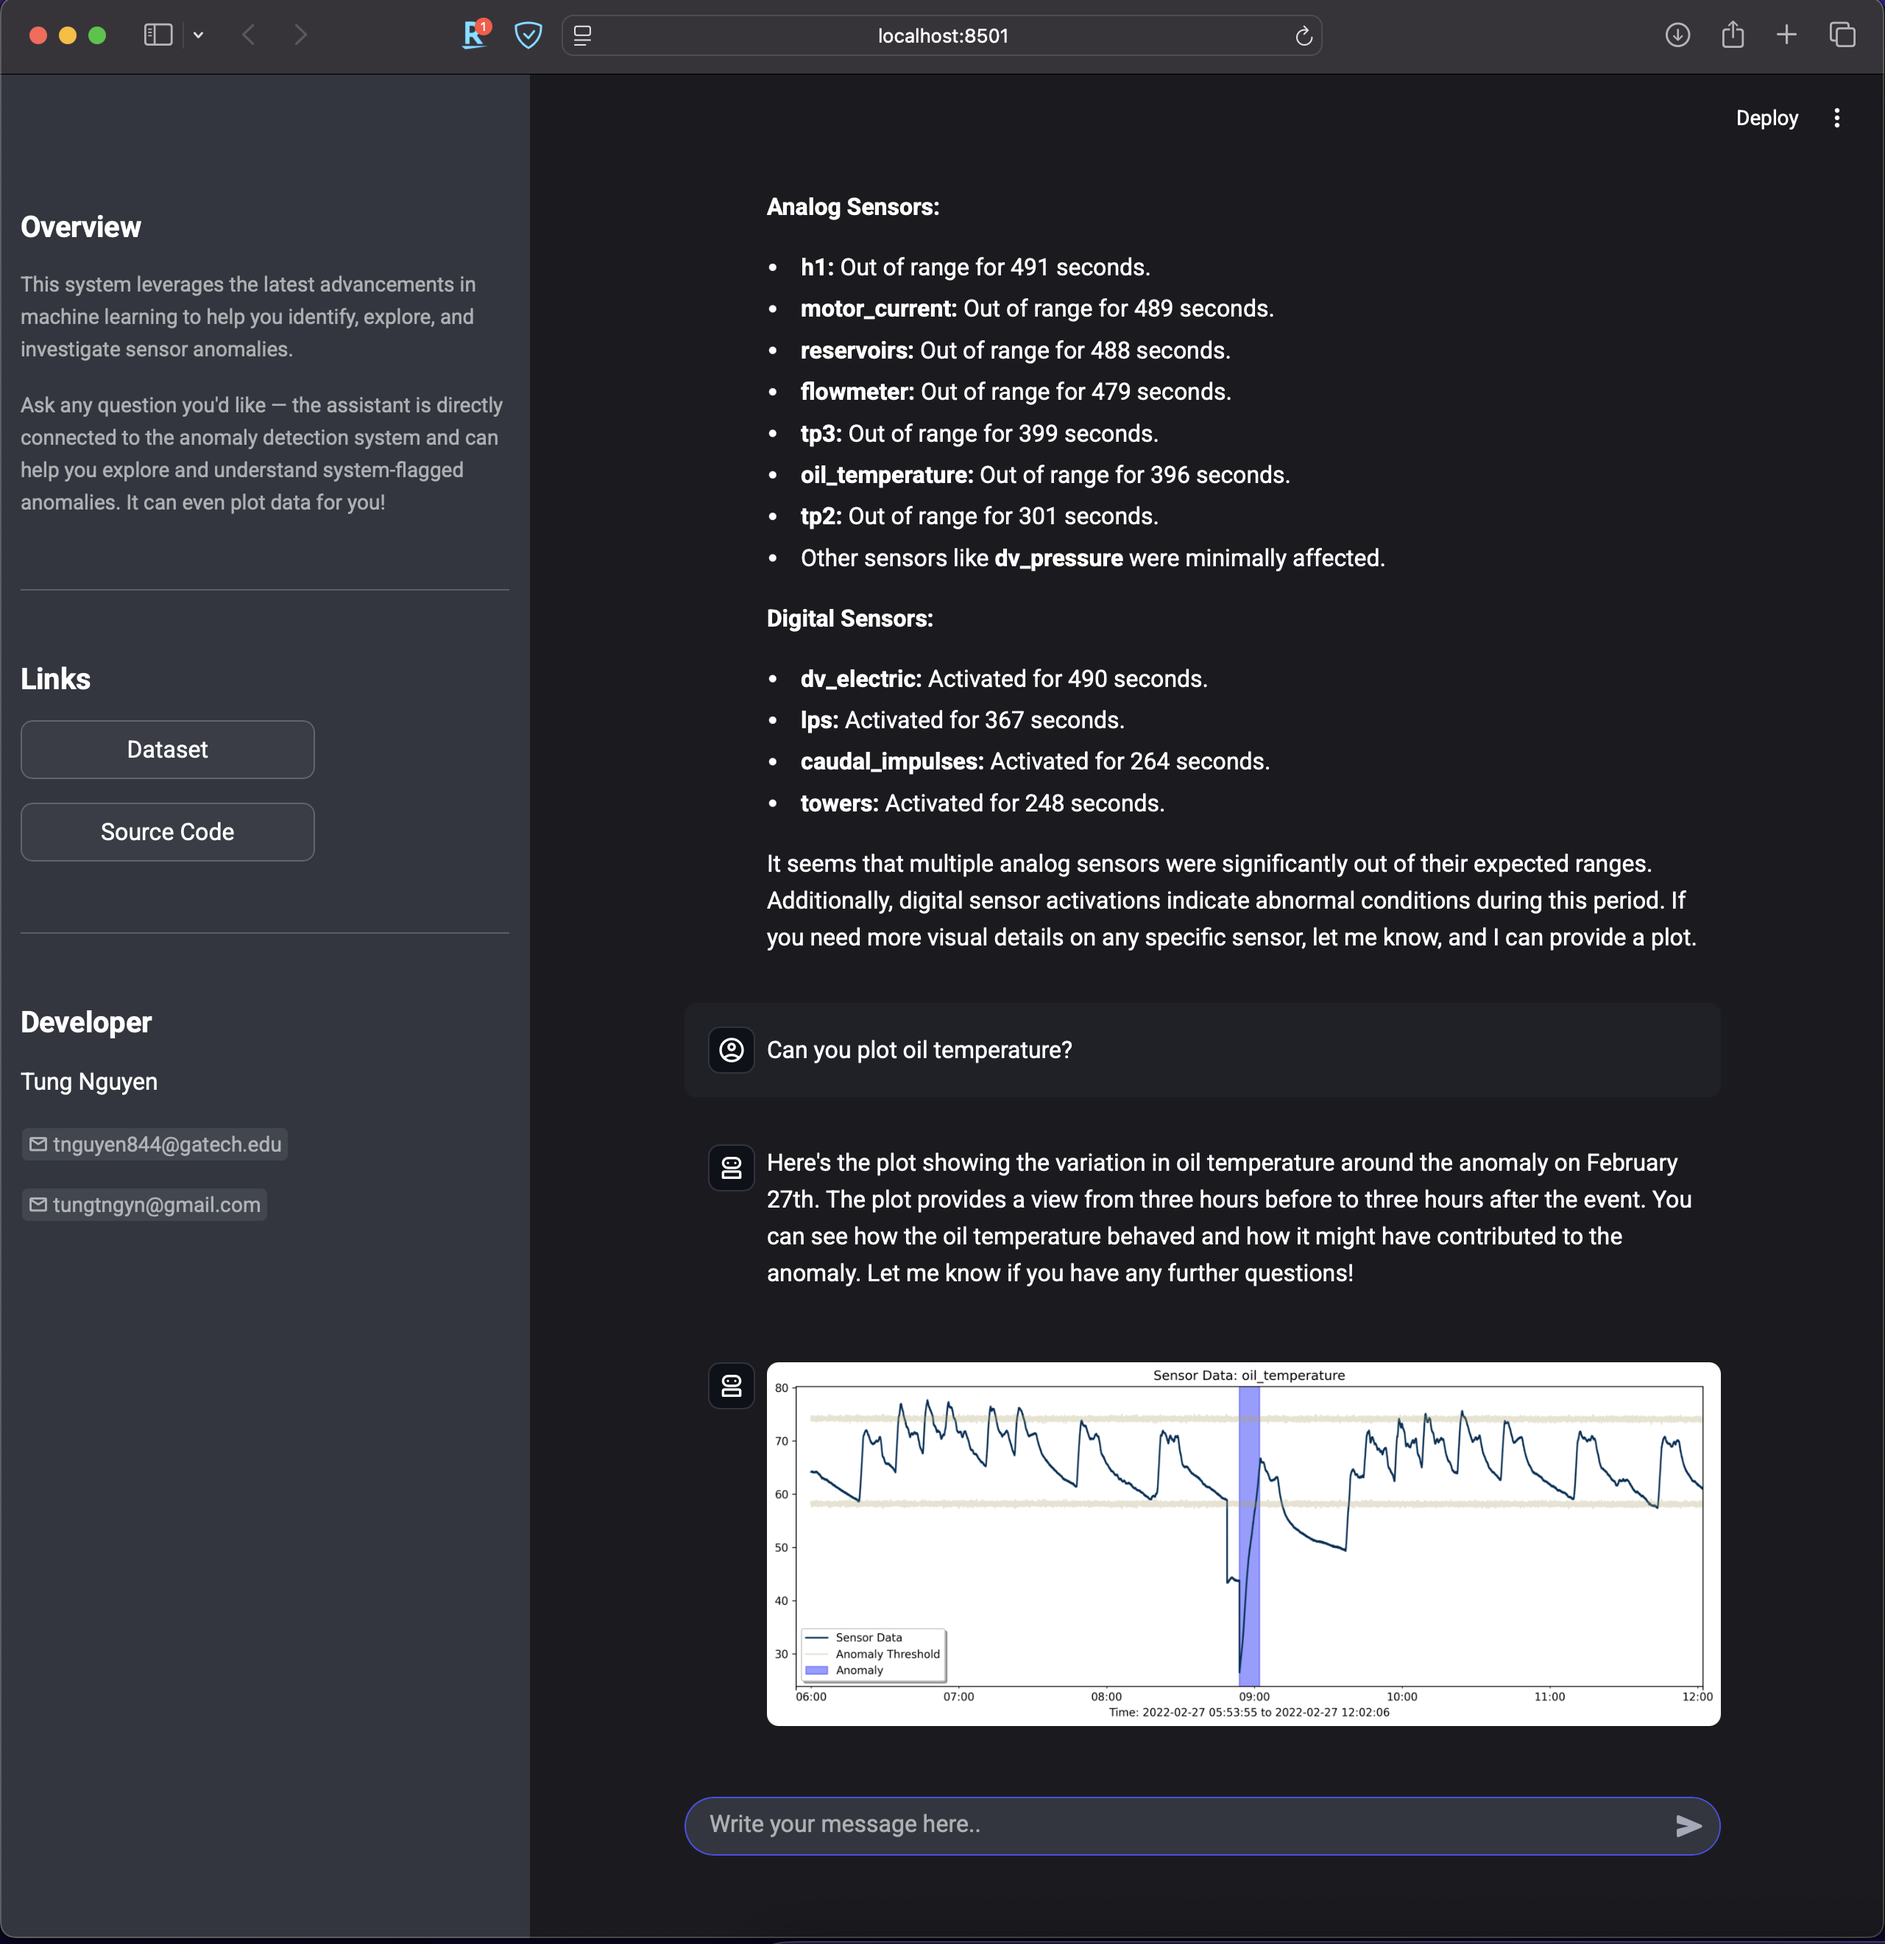
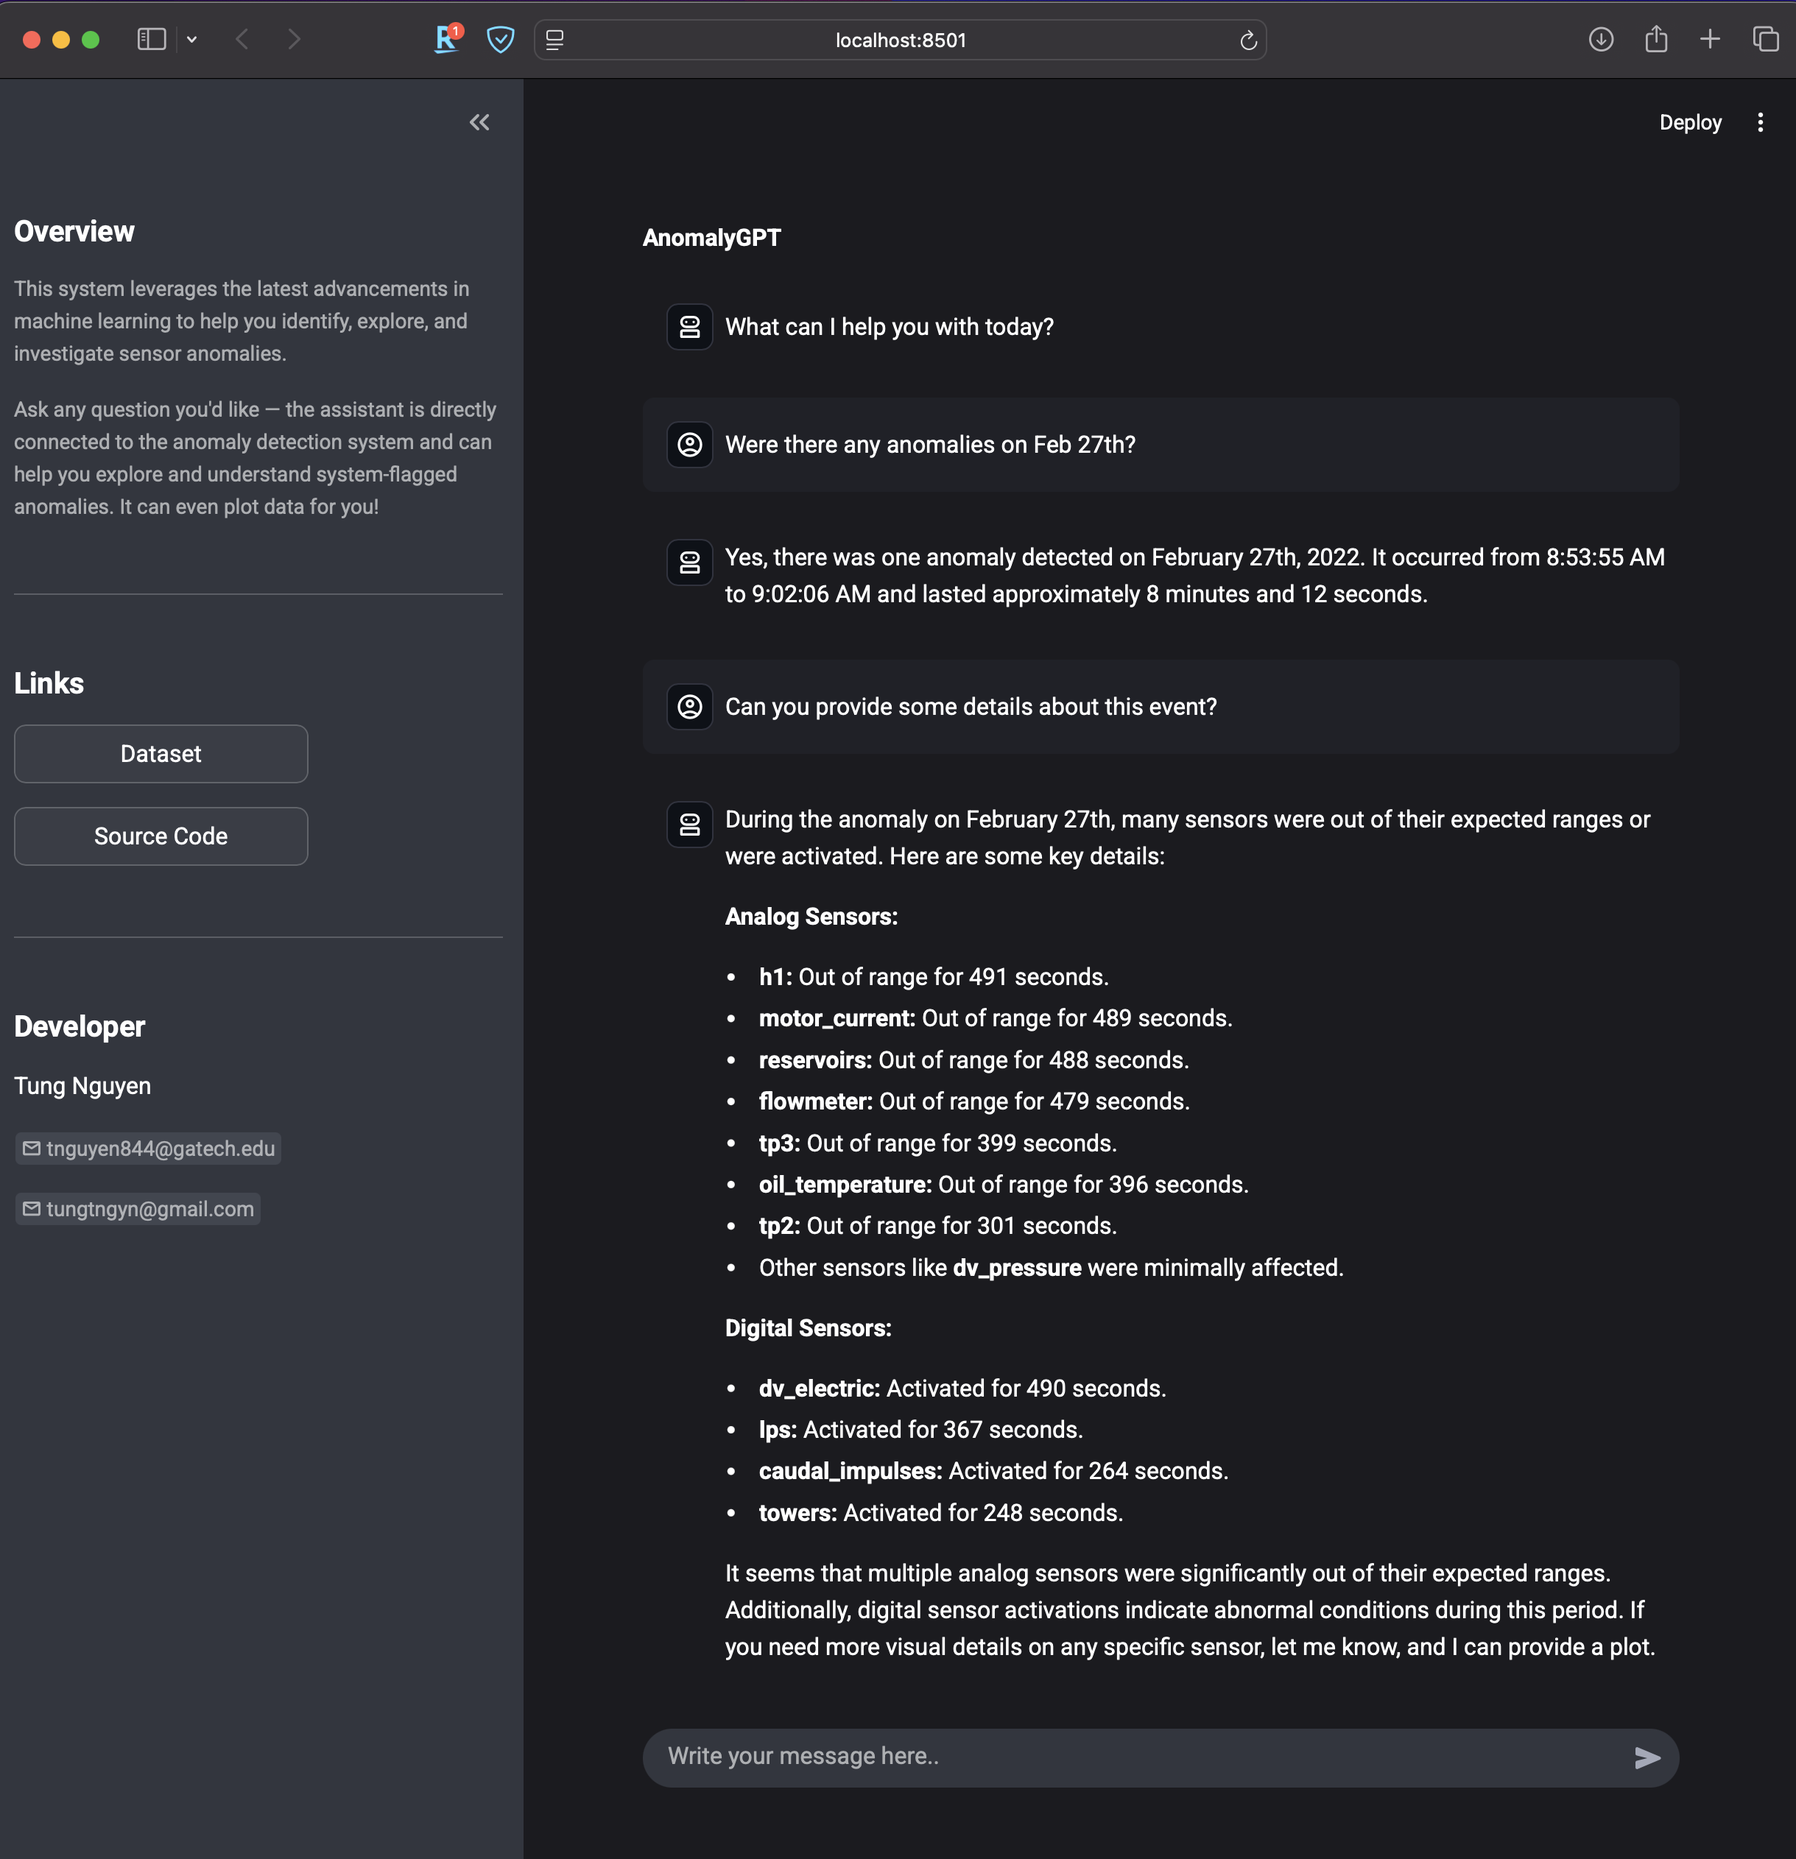
Add more README images

diff --git a/README.md b/README.md
@@ -61,6 +61,10 @@ A user interface was also created using `streamlit`. The app is fully contained 
 
 A browser window should open with the app running on `localhost`. The LLM has access the anomaly detection data generated in `00_setup_and_model_training` as well as plotting capabilities.
 
-The application should look like: 
+The application should look like this: 
 
 ![App Demo](04-app/imgs/App%20Demo.png)
+
+When asked to plot, the LLM will generate the plot and save it into `/imgs`. The generated image will also be appended to the chat history:
+
+![Plot Demo](04-app/imgs/Plot%20Demo.png)
